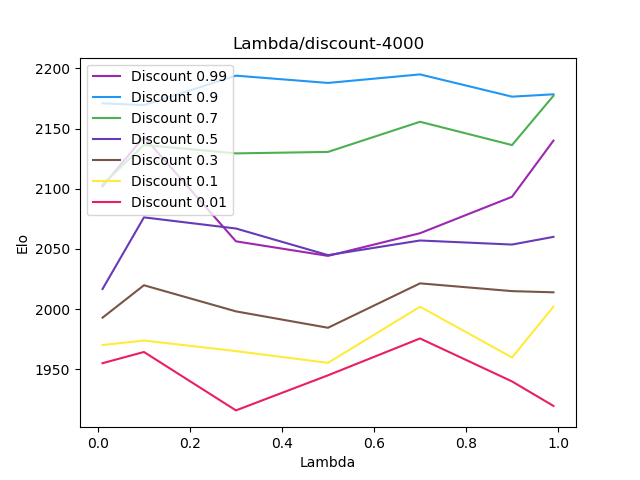
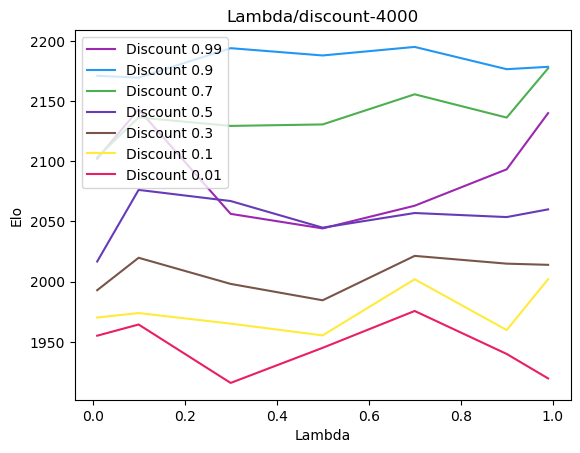
fix

diff --git a/plotgenerators/lambdaPlots.py b/plotgenerators/lambdaPlots.py
@@ -49,7 +49,7 @@ for x, values in vs.items():
     plt.xlabel('Discount')
     plt.ylabel('Elo')
     plt.legend(loc='upper left')
-    plt.savefig(f'GoodPlots/Lambda-{x}.png')
+    plt.savefig(f'GoodPlots/Lambda-{x}.png', bbox_inches='tight')
     plt.clf()
 
     for i, disk in enumerate(discounts[::-1]):
@@ -59,5 +59,5 @@ for x, values in vs.items():
     plt.xlabel('Lambda')
     plt.ylabel('Elo')
     plt.legend(loc='upper left')
-    plt.savefig(f'GoodPlots/Discount-{x}.png')
+    plt.savefig(f'GoodPlots/Discount-{x}.png', bbox_inches='tight')
     plt.clf()

diff --git a/plotgenerators/create.py b/plotgenerators/create.py
@@ -6,3 +6,5 @@ import chooserplot
 import trainfunction
 import heatmapplot
 import impalaplots
+import lambdaPlots
+import dropoutplots
